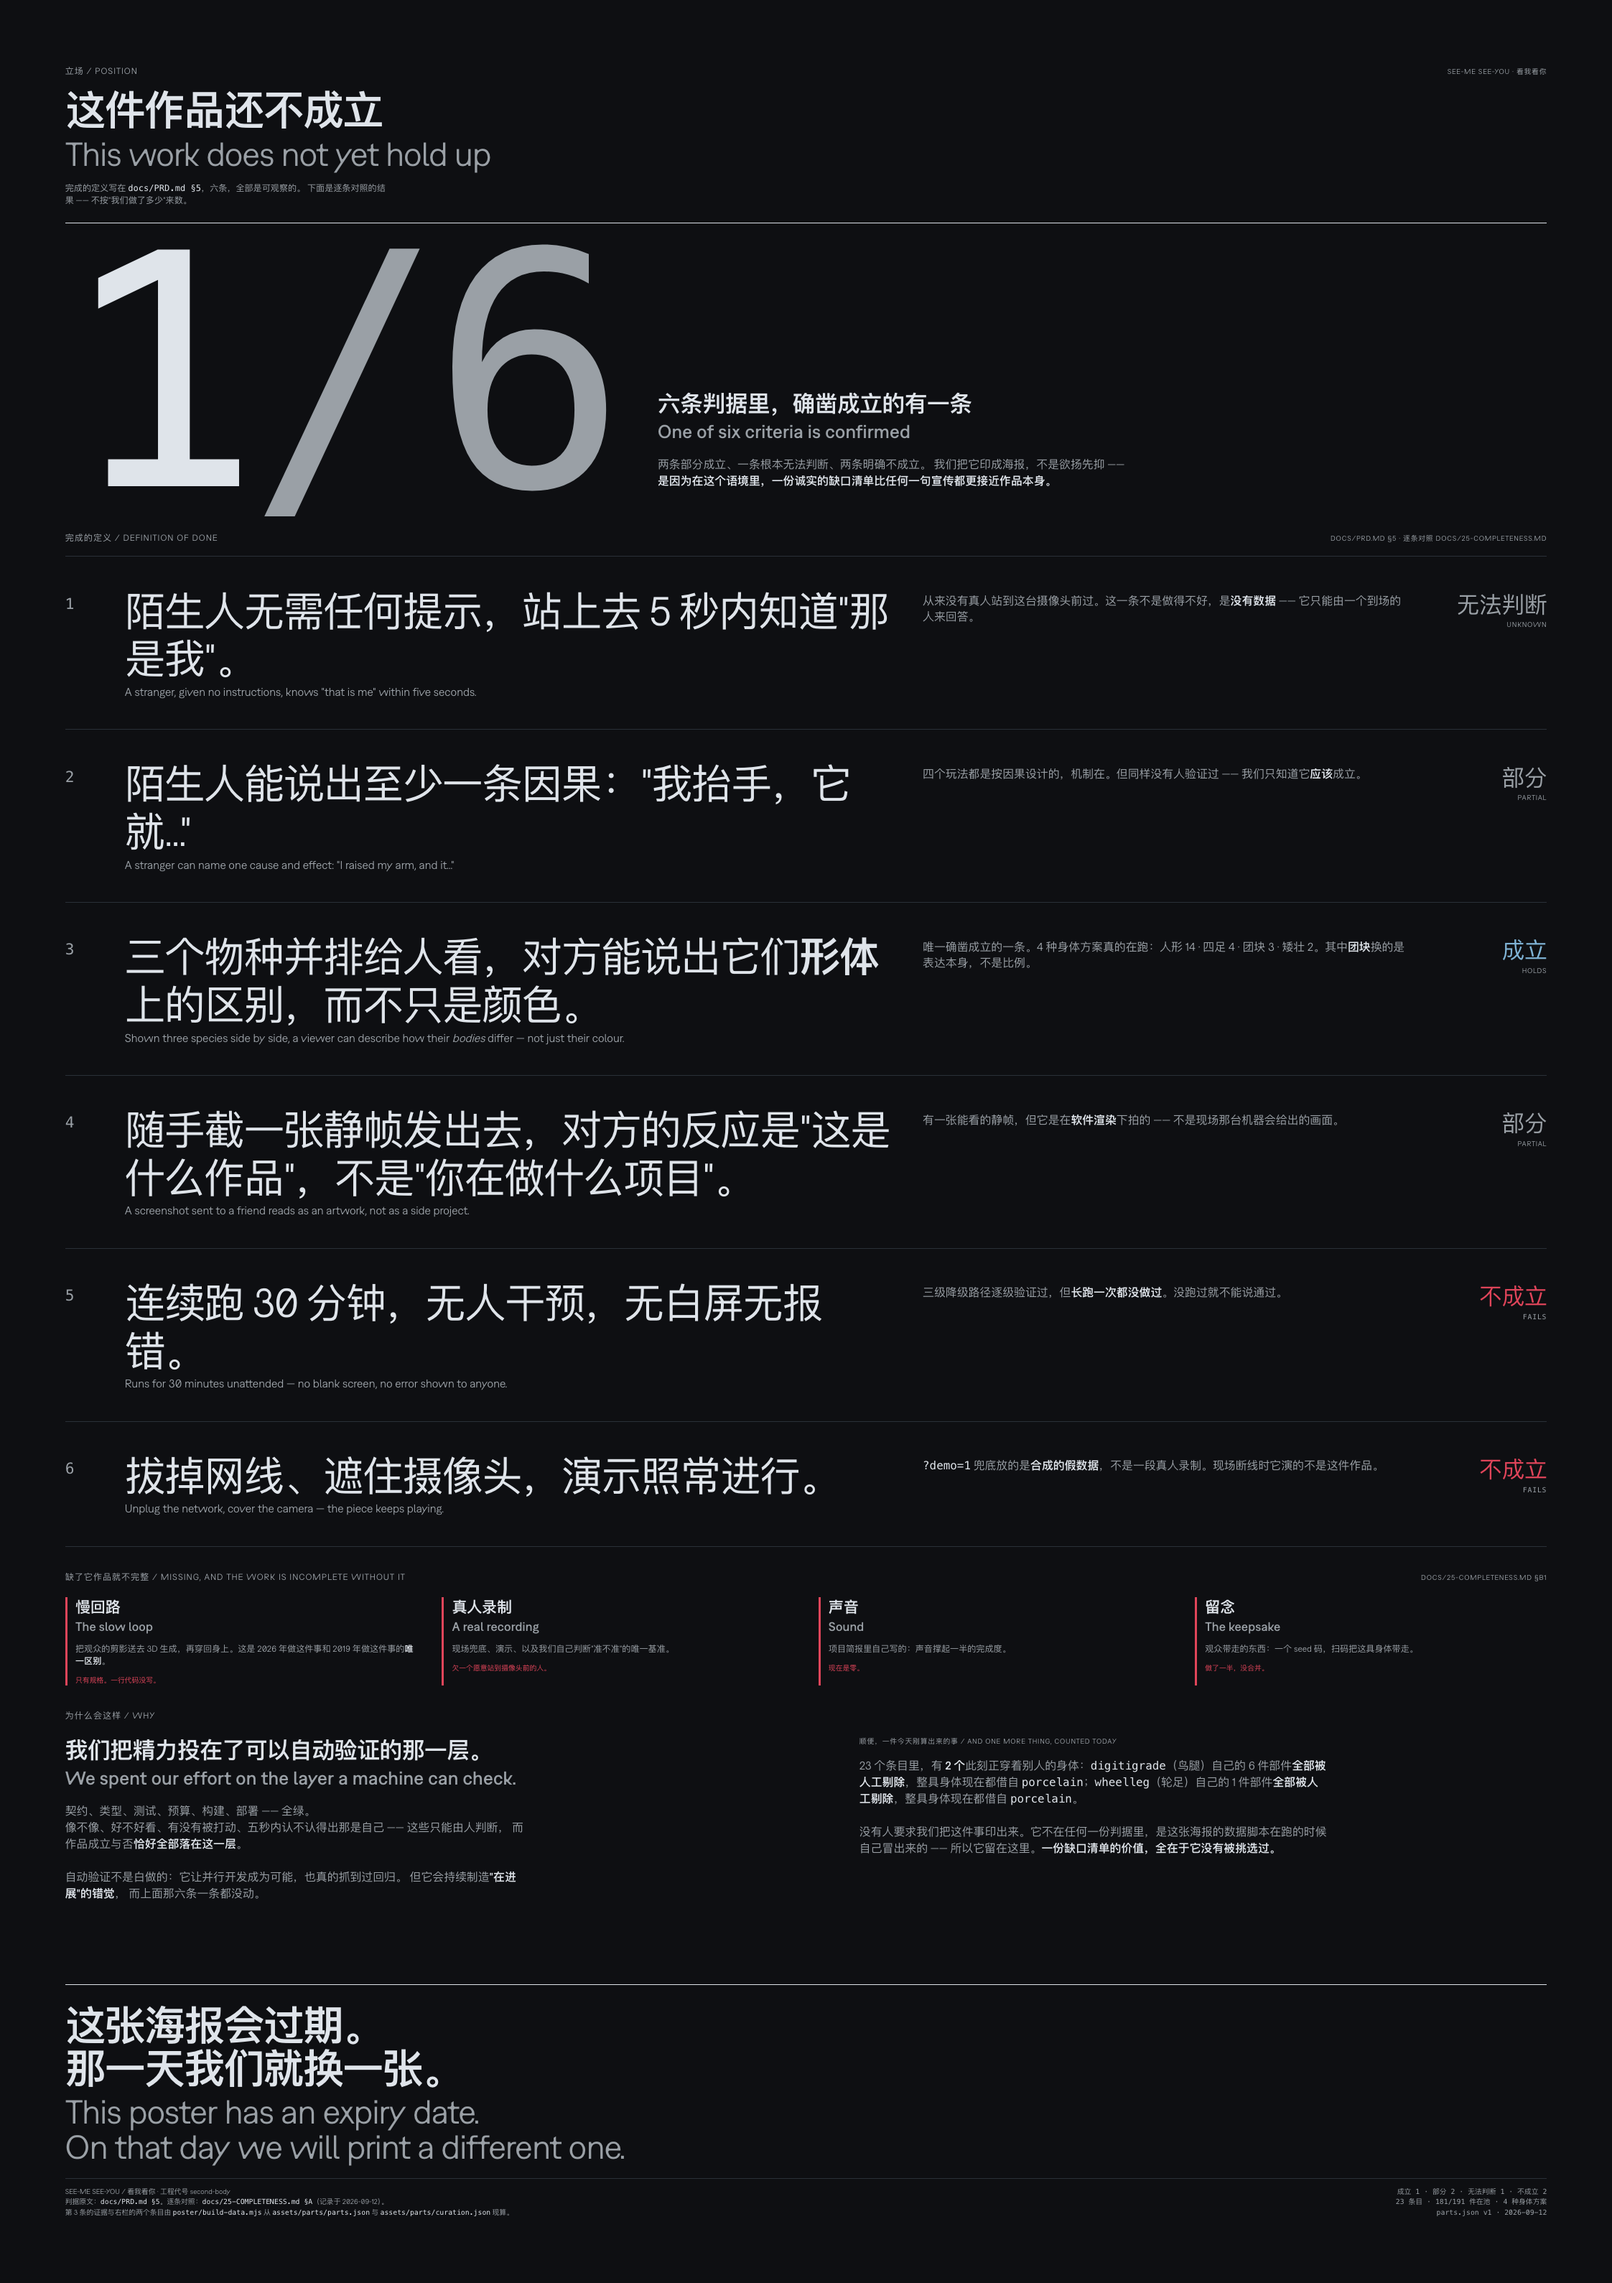
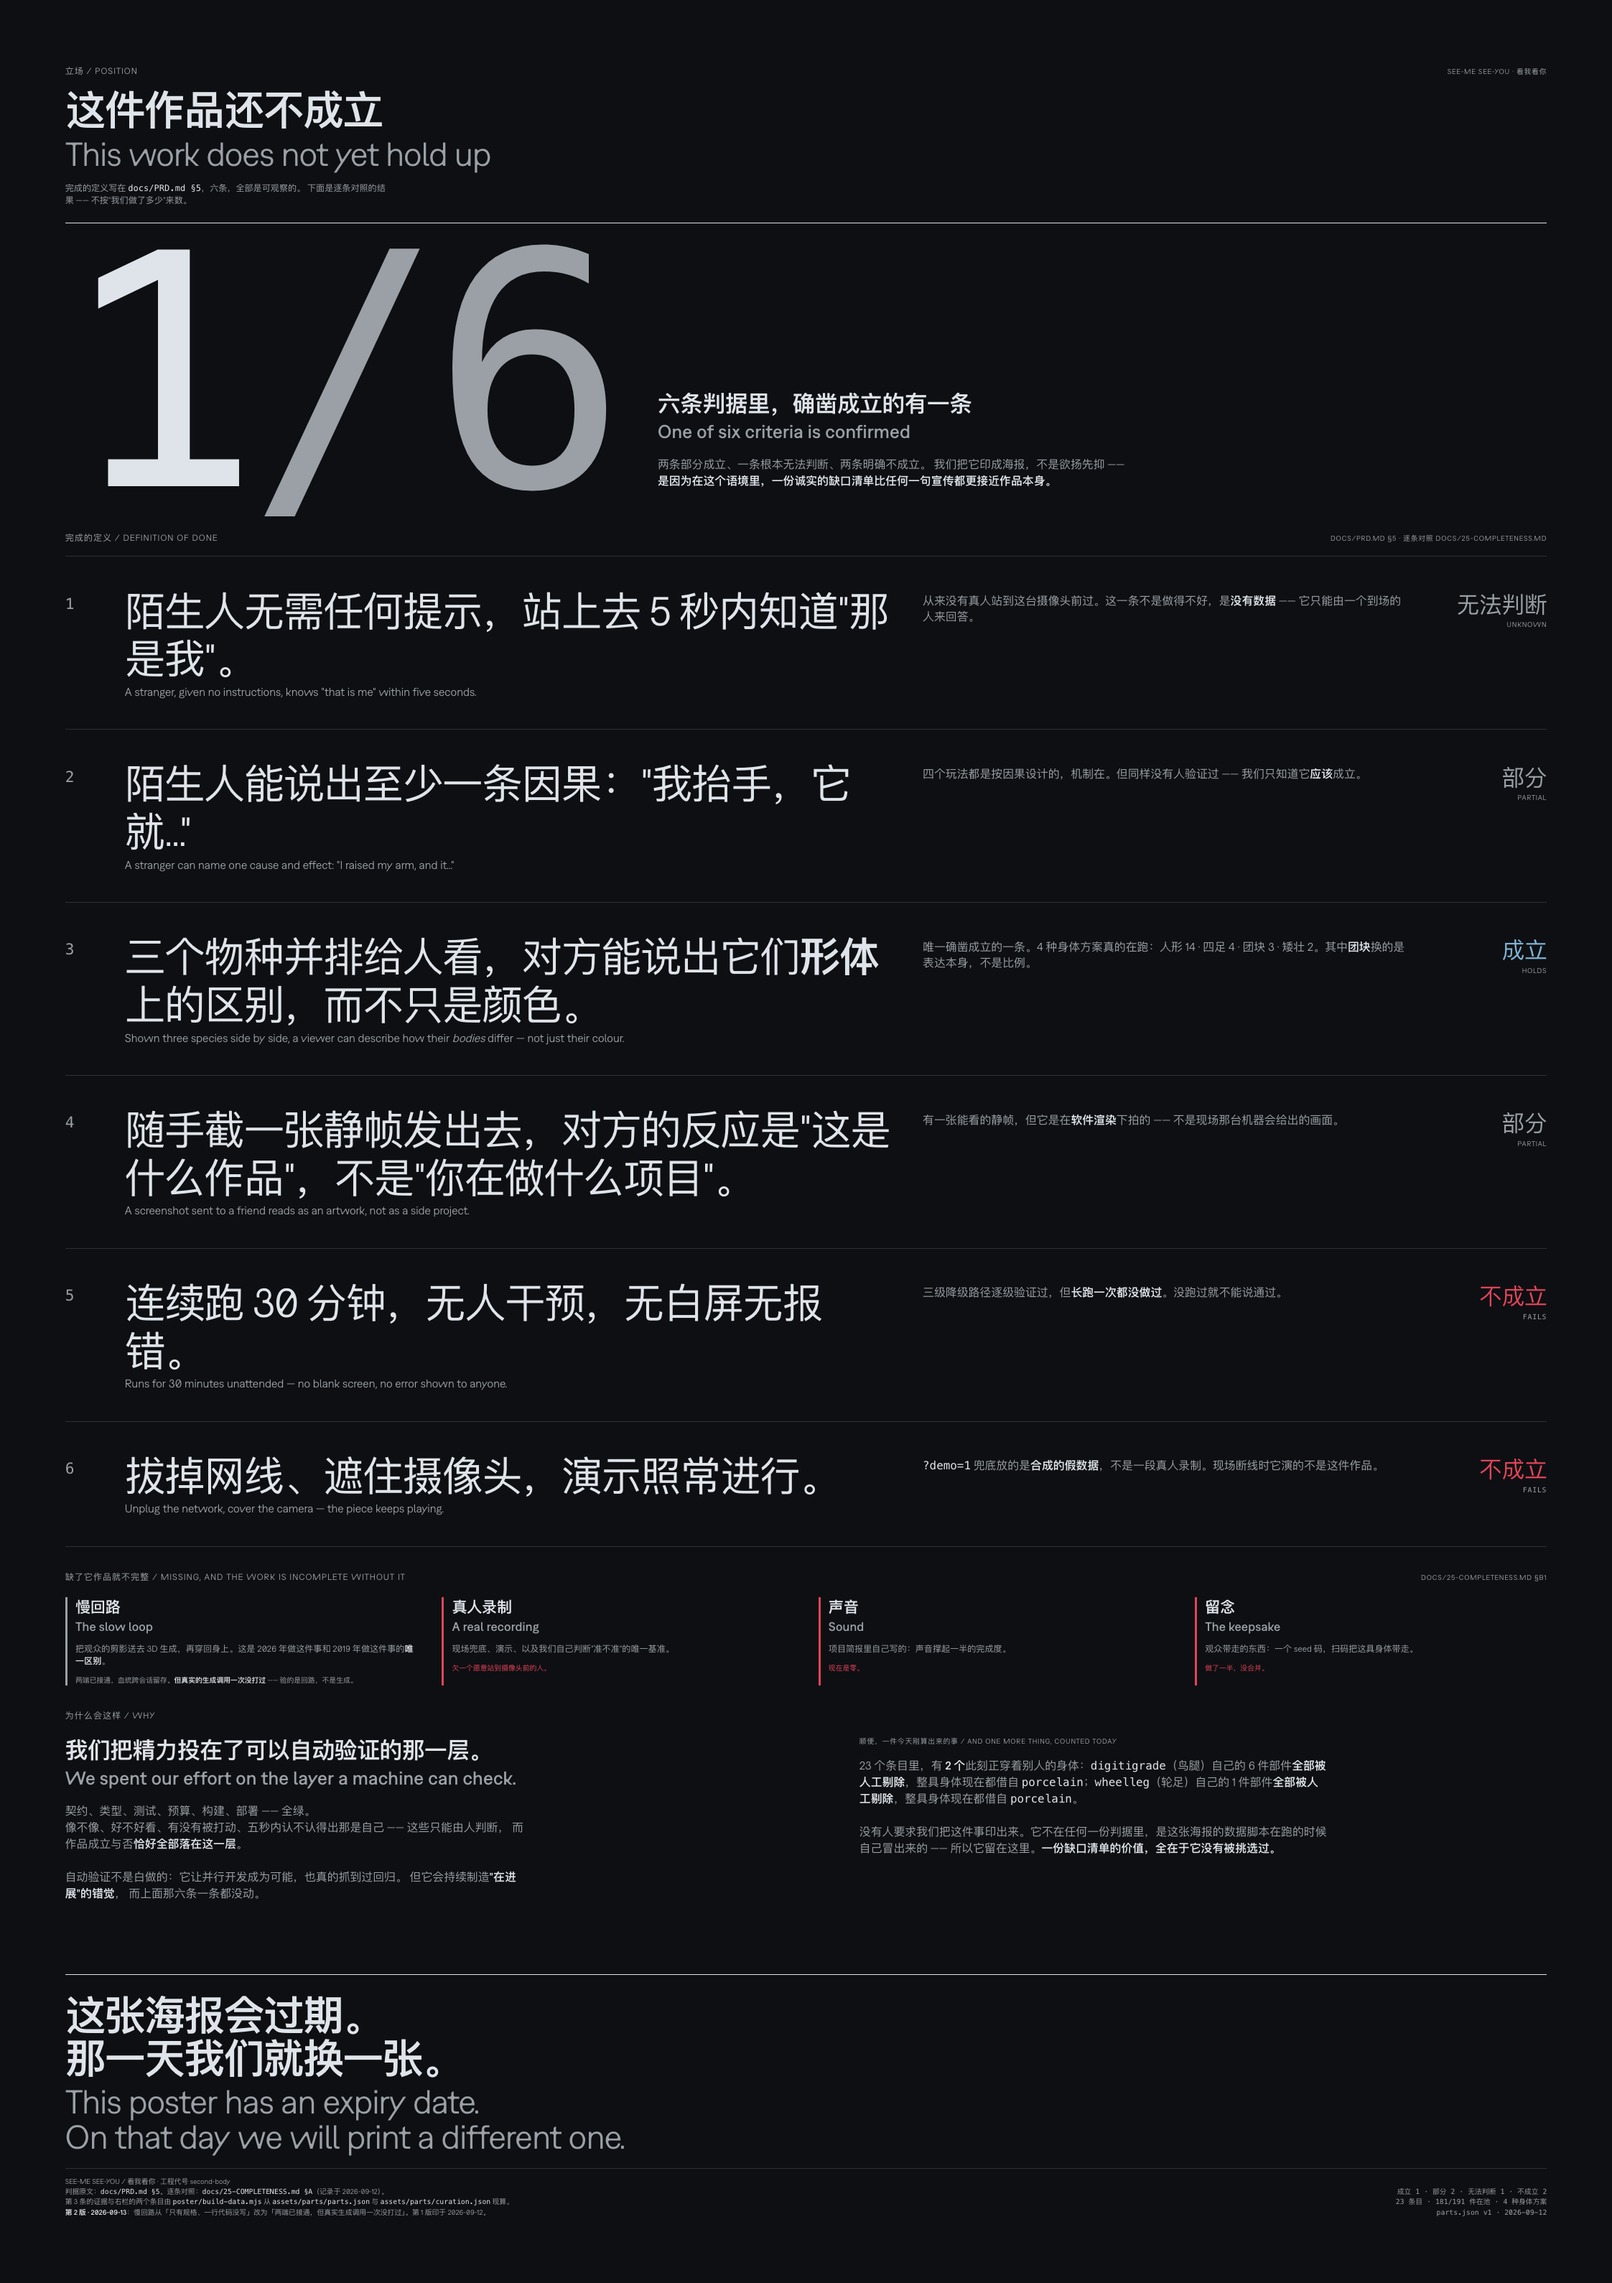
feat(brand): 立场海报出第 2 版 —— 它答应过会过期就换一张
慢回路那一格从「只有规格、一行代码没写」改成「两端已接通，
但真实生成调用一次没打过」。竖条从警示色改成灰：这张海报上的
强调色只留给"成立"，一件半成品不配拿它。

四个缺口里第一个不再是红的了 —— 视觉上一眼读得出进展，
这正是这张海报的排法想做到的事。

版次记在 assets/brand/README.md：改版要留痕，不要静默重印。
一张会过期的海报，价值一半在于能看出它什么时候过的期。

Changed region(s): [[0.0312, 0.872, 0.3742, 0.9654]]

diff --git a/packages/app/poster/03-position-a1.html b/packages/app/poster/03-position-a1.html
@@ -150,10 +150,10 @@
         <p class="p-label-micro">docs/25-COMPLETENESS.md §B1</p>
       </div>
       <div class="p-cols p-c4" style="margin-top:5mm;gap:0 9mm">
-        <div class="p-reject-bar">
+        <div class="p-partial-bar">
           <p class="p-h3 p-bi" style="margin:0"><span class="sb-zh">慢回路</span><span class="sb-en">The slow loop</span></p>
           <p class="p-small p-dim" style="margin-top:3mm">把观众的剪影送去 3D 生成，再穿回身上。这是 2026 年做这件事和 2019 年做这件事的<b class="p-ink" style="font-weight:600">唯一区别</b>。</p>
-          <p class="p-micro p-reject" style="margin-top:3mm">只有规格。一行代码没写。</p>
+          <p class="p-micro p-partial" style="margin-top:3mm">两端已接通，血统跨会话留存。<b class="p-ink" style="font-weight:600">但真实的生成调用一次没打过</b> —— 验的是回路，不是生成。</p>
         </div>
         <div class="p-reject-bar">
           <p class="p-h3 p-bi" style="margin:0"><span class="sb-zh">真人录制</span><span class="sb-en">A real recording</span></p>
@@ -249,7 +249,10 @@
     `SEE-ME SEE-YOU / 看我看你 · 工程代号 second-body<br>` +
     `判据原文：${m('docs/PRD.md §5')}。逐条对照：${m('docs/25-COMPLETENESS.md §A')}（记录于 2026-09-12）。<br>` +
     `第 3 条的证据与右栏的两个条目由 ${m('poster/build-data.mjs')} 从 ` +
-    `${m('assets/parts/parts.json')} 与 ${m('assets/parts/curation.json')} 现算。`;
+    `${m('assets/parts/parts.json')} 与 ${m('assets/parts/curation.json')} 现算。<br>` +
+    // 这张海报答应过会过期就换一张。这一行是它第一次兑现。
+    `<b style="color:var(--sb-ink)">第 2 版 · 2026-09-13</b>：慢回路从「只有规格、一行代码没写」` +
+    `改为「两端已接通，但真实生成调用一次没打过」。第 1 版印于 2026-09-12。`;
   $('colophon-r').innerHTML =
     `成立 1 · 部分 2 · 无法判断 1 · 不成立 2<br>` +
     `${C.entries} 条目 · ${C.partsLive}/${C.parts} 件在池 · ${C.plans} 种身体方案<br>` +

diff --git a/packages/app/poster/poster.css b/packages/app/poster/poster.css
@@ -119,6 +119,10 @@ html, body { margin: 0; padding: 0; background: #000; }
 .p-admit  { color: var(--sb-accent); }
 /* 拒入的那一条左边一根竖线 —— 颜色只在这一根线和一个字上，不铺面 */
 .p-reject-bar { border-left: 0.8mm solid var(--sb-warn); padding-left: 3mm; }
+/* 缺口清单里"已经不全缺了"的那一类。灰而不是蓝 —— 这张海报上的强调色
+   只留给"成立"，一件半成品不配拿它。 */
+.p-partial-bar { border-left: 0.8mm solid var(--sb-ink-dim); padding-left: 3mm; }
+.p-partial { color: var(--sb-ink-dim); }
 .p-admit-bar  { border-left: 0.8mm solid var(--sb-accent); padding-left: 3mm; }
 
 /* ── 页脚：每张海报都带出处 ─────────────────────────────────────────── */

diff --git a/assets/brand/README.md b/assets/brand/README.md
@@ -97,3 +97,14 @@ node packages/app/poster/shot.mjs --port=5173
 **全部由 JS 从 `type.css` 的计算样式当场读出**，没有一个是抄进 HTML 的；
 §1 的字体回退对照表也是当场量的（用 Range 框住文本节点量文字实宽，
 不是量块级元素的栏宽 —— 那样两边永远一样，什么都证明不了）。
+
+
+## 版次
+
+| 张 | 版 | 日期 | 改了什么 |
+|---|---|---|---|
+| 03 立场 A1 | 第 2 版 | 2026-09-13 | 慢回路那一格从「只有规格、一行代码没写」改为「两端已接通，但真实生成调用一次没打过」；竖条从警示色改成灰 —— 这张海报上的强调色只留给"成立"，一件半成品不配拿它。第 1 版印于 2026-09-12 |
+
+海报正文里写着「这张海报会过期。那一天我们就换一张。」
+第 2 版是它第一次兑现这句话。**改版要在版次表里留痕，不要静默重印** ——
+一张会过期的海报，它的价值一半在于能看出它什么时候过的期。
